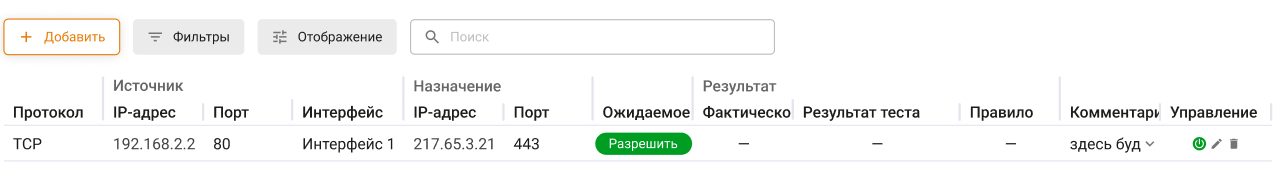
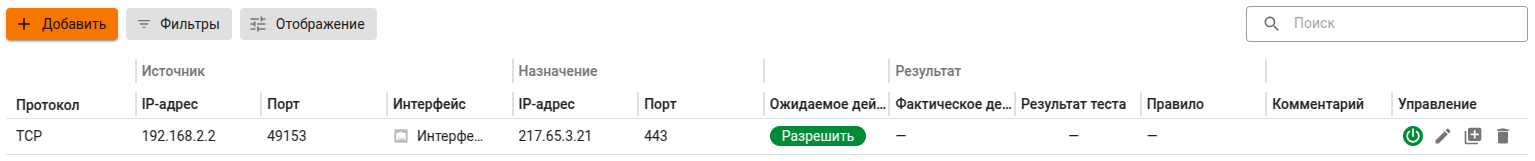
ICS-46007 УТМ. Актуализировать ст-и блока Файрвол

diff --git a/settings/access-rules/rule-check.md b/settings/access-rules/rule-check.md
@@ -4,6 +4,12 @@
 
 Тест (кейс) - это конкретный пример, в котором происходит тестирование доступа до определенного IP-адреса с учетом правил таблицы **Файрвола**. Кейс является единицой тестирования.
 
+Для тестирования правил необходимо указывать порт источника. Это связано с тем, что во время тестирования NGFW генерирует тестовый пакет с заданным источником и назначением и проверяет, как он проходит через **Файрвол**.
+
+{% hint style="success" %}
+Рекомендуем у источника использовать порты из диапазона 49152 - 65535 (динамически выделяемые или частные порты, которые не регистрируются IANA).
+{% endhint %}
+
 ## Создание тестов
 
 {% hint style="info" %}
@@ -20,7 +26,7 @@
 
 Для создания теста выполните действия:
 
-1\. Перейдите в раздел **Правила трафика -> Файрвол -> Тестирование правил** и нажмите **Добавить**:
+1\. Перейдите на вкладку **Правила трафика -> Файрвол -> Тестирование правил** и нажмите **Добавить**.
 
 2\. Заполните поля:
 
@@ -48,20 +54,20 @@
 2\. Нажмите **Запустить тестирование** в левом нижнем углу вкладки.
 
 {% hint style="warning" %}
-Если кейс не включить, то его тестирование осуществляться не будет.
+Если кейс не включить, то его тестирование запускаться не будет.
 {% endhint %}
 
 При совпадении ожидаемого и фактического действия тестирование кейса считается успешным:
 
 ![](/.gitbook/assets/firewall35.png)
 
-Залогированные правила вида `fwd.sys.xxx`, `inp.sys.xxx`, `out.sys.xxx` в столбце **Правило** - результат срабатывания системного правила, которое разрешило или запретило прохождение трафика в рамках данной проверки, если не сработало ни одно пользовательское правило.
+Залогированные правила вида `fwd.sys.xxx`, `inp.sys.xxx`, `out.sys.xxx` в столбце\
+**Правило** - результат срабатывания системного правила, которое разрешило или запретило прохождение трафика в рамках данной проверки, если не сработало ни одно пользовательское правило.
 
 Если у выбранного кейса **Интерфейс** источника был удален (отображается **Удалено** в столбце **Интерфейс**), тестирование кейса завершится с фактическим действием **Запретить**.
 
 {% hint style="warning" %}
-Если опция **Блокировать весь трафик в случае неудачного теста** включена (**не рекомендуем**), то любой неуспешный результат теста (обозначен ![](/.gitbook/assets/icon-red-cross.png)) приведет к блокировке всего трафика через NGFW. 
-Единственный способ снятия блокировки - тестирование кейса без ошибок. Отключение опции нажатием на переключатель не сработает:
+Не рекомендуем включать опцию **Блокировать весь трафик в случае неудачного теста**, иначе при любом неуспешном результате теста (обозначен ![](/.gitbook/assets/icon-red-cross.png)) весь трафик через NGFW будет заблокирован. Единственный способ снятия блокировки - тестирование кейса без ошибок. Отключение опции не сработает:
 
 ![](/.gitbook/assets/firewall36.png)
 {% endhint %}
